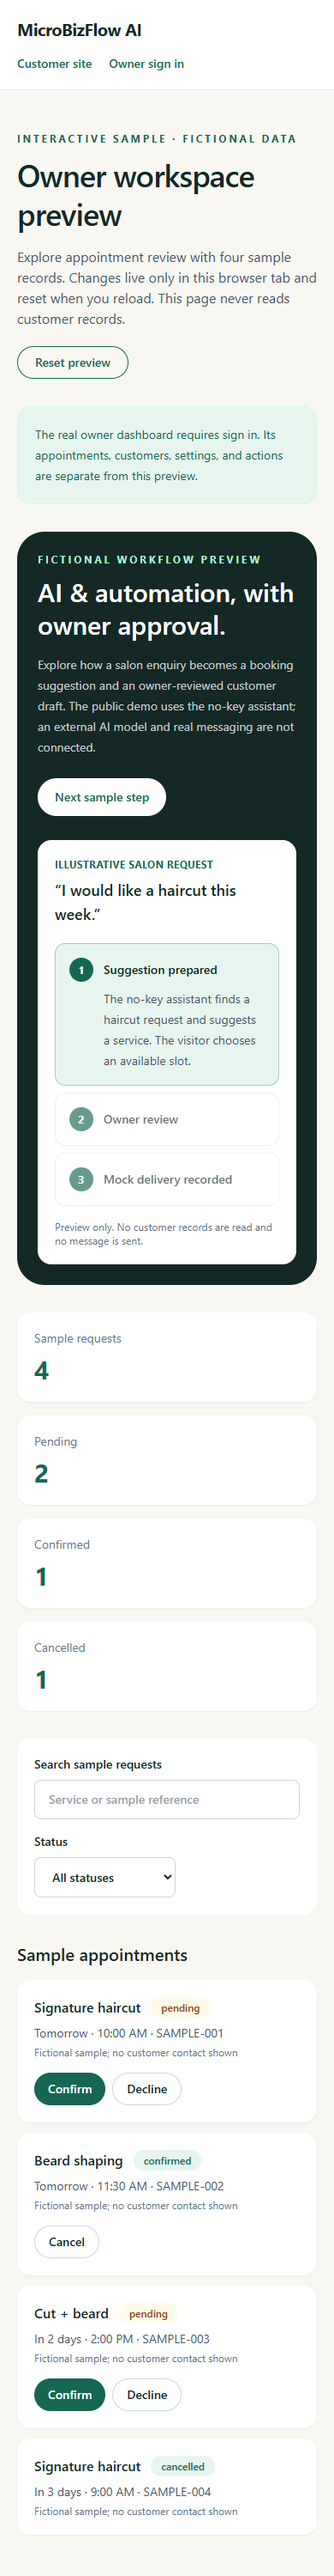
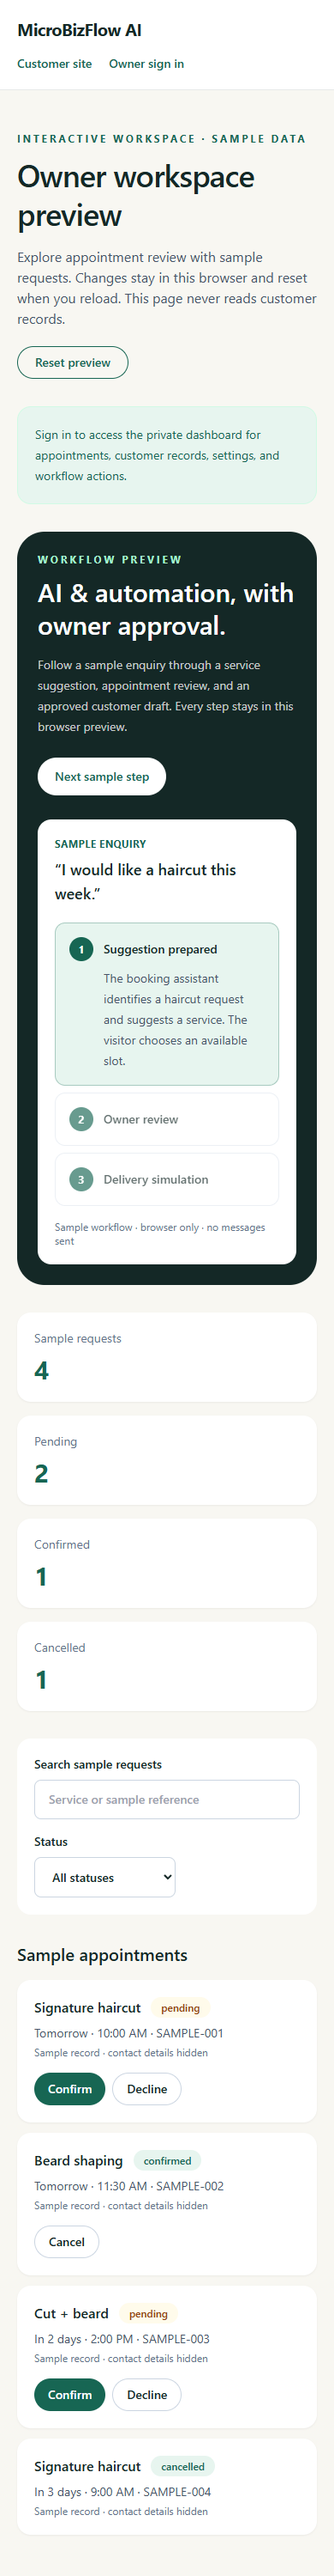
Present portfolio capabilities and refreshed previews

diff --git a/README.md b/README.md
@@ -1,36 +1,44 @@
 # MicroBizFlow AI
 
-**Intelligent Customer Management and Business Automation for Small Businesses.**
+**Booking, customer operations, and AI-assisted workflows for appointment-based businesses.**
 
-MicroBizFlow AI is an open-source booking and customer workflow application for small service businesses. Its first example is **Harbour Cut Studio**, a fictional two-chair barbershop in Sri Lanka. Business hours, time zone, services, and resources are stored as data so the booking logic can support other appointment-based businesses.
+MicroBizFlow AI is a deployed React and TypeScript application backed by a Cloudflare Worker API and D1. The showcase follows **Harbour Cut Studio**, a two-chair Colombo salon, from a customer's first enquiry through booking, owner review, and follow-up activity. Business hours, time zone, services, and resources are data-driven so the same booking engine can support other appointment-based businesses.
 
-## Current status
+**[Live booking app](https://microbizflow-ai.pages.dev/) · [Interactive owner preview](https://microbizflow-ai.pages.dev/owner-preview) · [Architecture](docs/architecture.md) · [Verified deployment](docs/deployment.md)**
 
-The public demo is live at **[microbizflow-ai.pages.dev](https://microbizflow-ai.pages.dev/)**. It uses fictional seed data and accepts booking contacts ending in `@example.invalid` only. The customer page now presents a salon-focused visual, service details, a booking assistant, and a clear AI and automation walkthrough. The standalone Worker has an hourly Cron Trigger for the bounded demo reset; production CPU usage still needs observation.
+> **Portfolio demo:** Harbour Cut Studio and its records are fictional; the studio image was generated for this showcase. Booking accepts only `@example.invalid` contacts. Notifications and CRM delivery are simulated, and no real customer messages are sent.
 
-Visitors can explore the owner workspace preview at `/owner-preview` without signing in. It uses four fictional records held only in the browser; the real owner dashboard and customer records remain protected. In local development, open `http://127.0.0.1:8788/owner-preview`.
+## Engineering highlights
 
-See the [deployment record](docs/deployment.md) for the verified release, free-tier limits, and remaining monitoring checks.
+| Area | Implemented and verified |
+| --- | --- |
+| Booking correctness | Configurable services and hours, business time zone, real slot availability, D1-enforced two-chair capacity, idempotent requests, private-code status lookup and cancellation |
+| Owner operations | Protected sessions and business-scoped routes for appointment decisions, service settings, customer records, CSV export, and analytics |
+| AI-ready assistance | English and Sinhala enquiry suggestions, optional validated Workers AI adapter, deterministic fallback, and a booking API that checks every suggested slot |
+| Workflow automation | Durable events, owner-approved customer drafts, reminder preparation, retry handling, and a mock outbox that never sends real messages |
+| Delivery | Cloudflare Pages, Workers, and D1 on Free services; TypeScript, lint, unit and schema tests, browser CI, and live HTTPS smoke checks |
 
-The application includes service browsing, real slot availability, pending booking requests, database-enforced chair capacity, idempotent submissions, reference-and-code status lookup and cancellation, owner sign-in, appointment decisions, searchable and exportable owner appointments, business-profile, service, and working-hours management, searchable customer records with private notes and owner-controlled deletion, owner analytics from stored records, a no-key English/Sinhala enquiry assistant with a structured owner review queue, approval-gated mock notifications and appointment reminder drafts, signed inbound webhook support, and a durable mock CRM sync. The live demo uses a fixed fictional visitor name, discards booking notes, and sends no real messages. Remote AI inference and inbound webhooks are optional and unconfigured in production. Real messaging and external CRM providers are still on the [roadmap](docs/roadmap.md). Do not use the public demo for real customer data.
+The authenticated owner workspace includes a structured enquiry review queue, private customer notes and deletion, workflow activity, and mock CRM sync. The public owner preview uses sample records held only in browser memory; it does not read private owner data. See the [testing record](docs/testing.md) for measured checks and the [roadmap](docs/roadmap.md) for integrations that remain future work.
 
-## AI and automation in the demo
+## Assistant and automation
 
-The **no-key assistant** reads a visitor's English or Sinhala enquiry and suggests a service, date, and time when it recognizes them. Missing details stay missing. A visitor must still choose an available slot; the booking API and D1 capacity rules make the actual decision. Cloudflare Workers AI is an optional adapter and is **not enabled** in the public demo.
+The live assistant extracts possible service and timing details from English or Sinhala enquiries without an external model. An optional Workers AI adapter is implemented but **not enabled** in this deployment. Suggestions never book an appointment: the visitor selects a real slot, and the API applies working-hours, timing, and capacity rules. Missing details remain open for the visitor to choose.
 
-Booking events create durable owner activity and customer draft notifications. The owner reviews appointment requests and must approve customer drafts. Delivery is recorded in a **mock outbox**; the public demo sends no real email or SMS and does not connect to an external CRM. The [interactive owner workflow preview](https://microbizflow-ai.pages.dev/owner-preview) uses fictional records in browser memory and never loads private customer data.
+Booking events create durable owner activity and customer drafts. The owner reviews requests and approves drafts before the mock delivery step. The [interactive workflow preview](https://microbizflow-ai.pages.dev/owner-preview) lets visitors inspect this sequence without signing in.
 
-![Salon-focused customer page at desktop width](docs/screenshots/customer-desktop.png)
+## Product preview
 
-[Customer page at mobile width](docs/screenshots/customer-mobile.png) · The studio image is generated and illustrative; Harbour Cut Studio is fictional.
+![Customer booking experience](docs/screenshots/customer-desktop.png)
 
-![No-key booking assistant suggesting a haircut and asking for missing details](docs/screenshots/booking-assistant.png)
+[Mobile customer view](docs/screenshots/customer-mobile.png)
 
-![Public AI and automation walkthrough with booking rules and owner review](docs/screenshots/ai-automation.png)
+![Booking assistant suggesting a haircut and asking for missing details](docs/screenshots/booking-assistant.png)
 
-![Interactive fictional owner approval workflow preview](docs/screenshots/owner-automation-preview.png)
+![AI and automation flow from enquiry to owner review](docs/screenshots/ai-automation.png)
 
-[Full owner workspace preview](docs/screenshots/owner-preview.png) · [Mobile owner preview](docs/screenshots/owner-preview-mobile.png) · [Owner sign-in](docs/screenshots/owner-login.png). All screenshots use fictional demonstration data.
+![Interactive owner approval workflow preview](docs/screenshots/owner-automation-preview.png)
+
+[Full owner workspace](docs/screenshots/owner-preview.png) · [Mobile owner view](docs/screenshots/owner-preview-mobile.png) · [Owner sign-in](docs/screenshots/owner-login.png). Screenshots use sample data.
 
 ## Local setup
 
